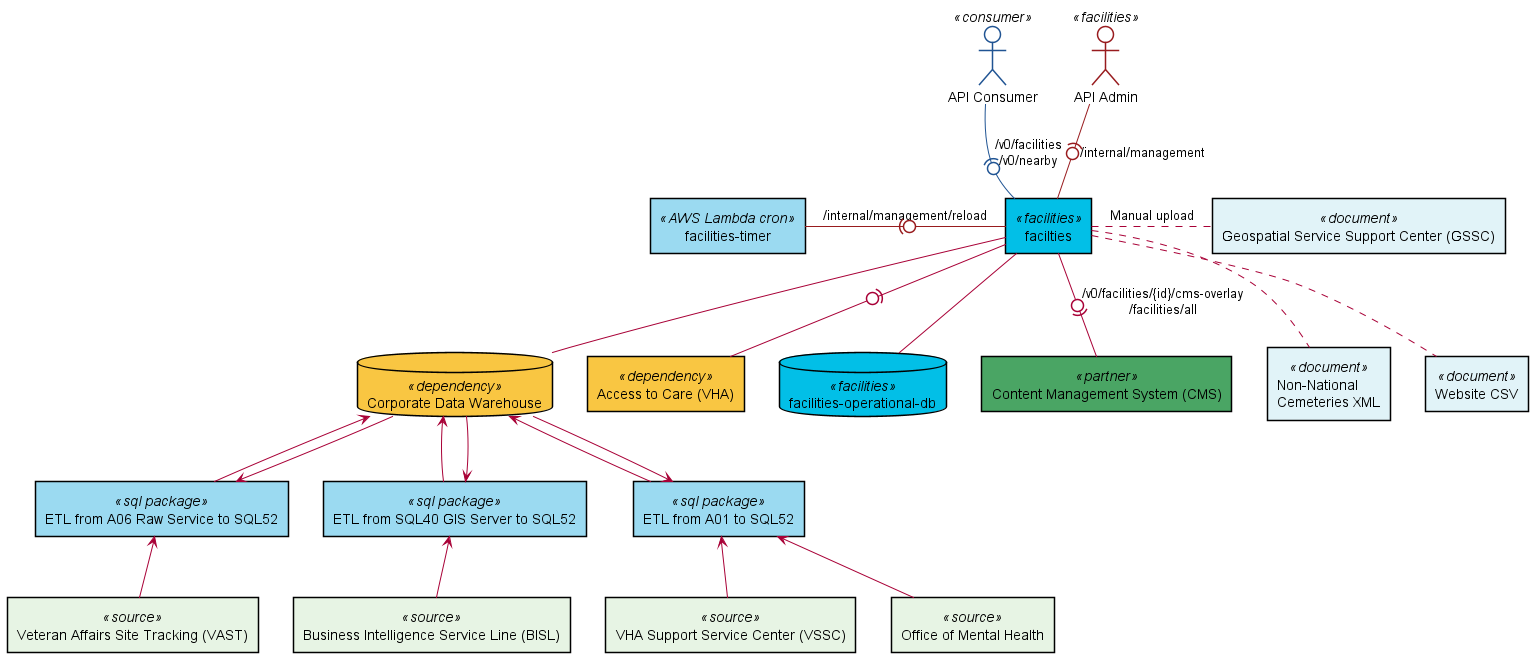
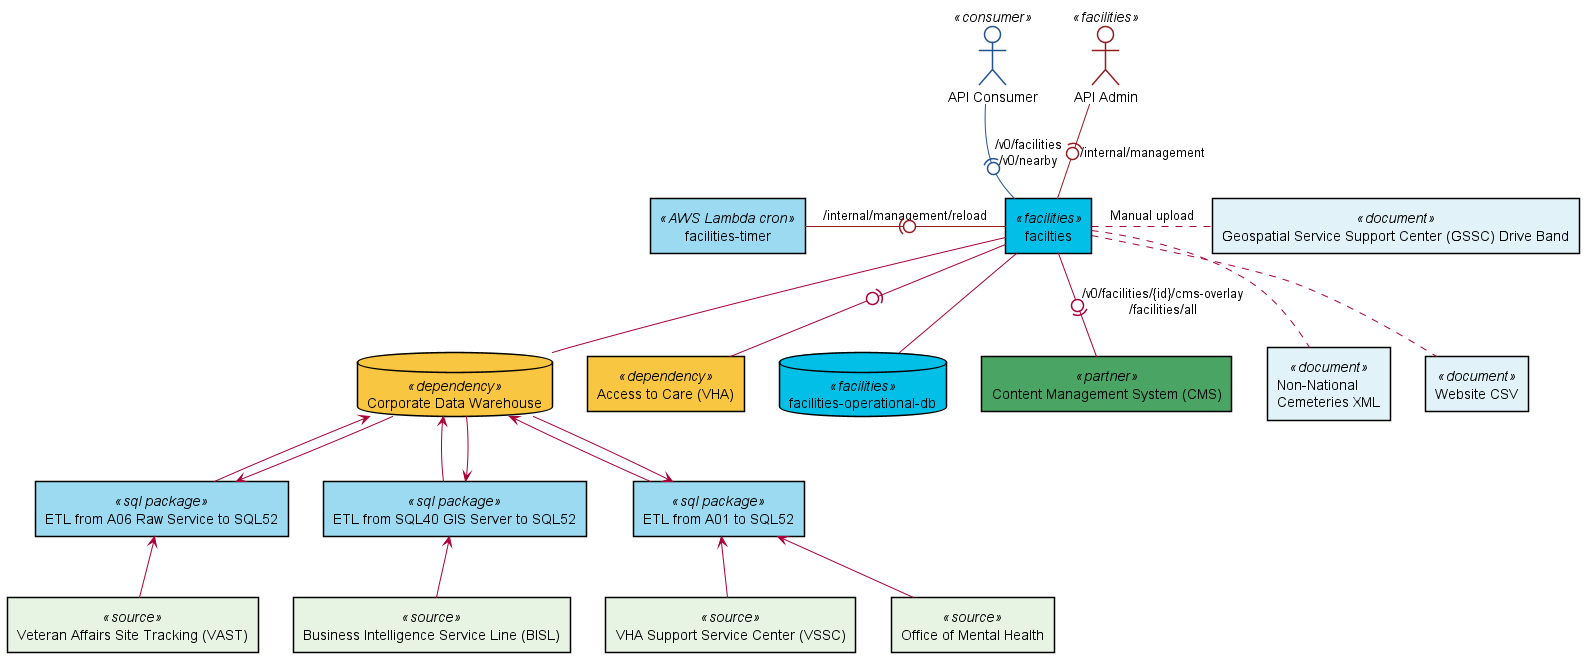
Added 'Drive Band' to images, also expanded CMS and GSSC acronym in the README

diff --git a/README.md b/README.md
@@ -46,7 +46,7 @@ OpenAPI documentation on the
     - Mental Health, Clinical Services, and Stop Codes from the _A01_ server, sourced from the VHA Support Center (VSSC) and Office of Mental Health.
     - National Cemeteries and Benefit Centers from the _NCA VBA SQL40 GIS_ server, sourced from Business Intelligence Service Line (BISL).
     - Health facilities and Veteran centers from the _A06_ server, sourced from Veteran Affairs Site Tracking (VAST).
-* `GSSC Drive Band` documents are periodically uploaded to the `facilities`
+* `Geospatial Service Support Center (GSSC) Drive Band` documents are periodically uploaded to the `facilities`
   application through management APIs.
 
 # Data Flow
@@ -56,7 +56,7 @@ OpenAPI documentation on the
 * The facilities collection process aggregates data from other services, databases, or manually managed
   files. Drive-time band and operating status are not part of collection.
   Collection is an expensive process that is performed periodically.
-* `CMS` is both a consumer and a producer of information. `CMS` will periodically pull all
+* `Content Management System (CMS)` is both a consumer and a producer of information. `CMS` will periodically pull all
   facilities to automatically populate content pages in Drupal.
   Additionally, regional administrators of CMS data may change the operating status or extended service(s) at any time.
   This information is provided back to the Facilities API through a specialized CMS-dedicated
